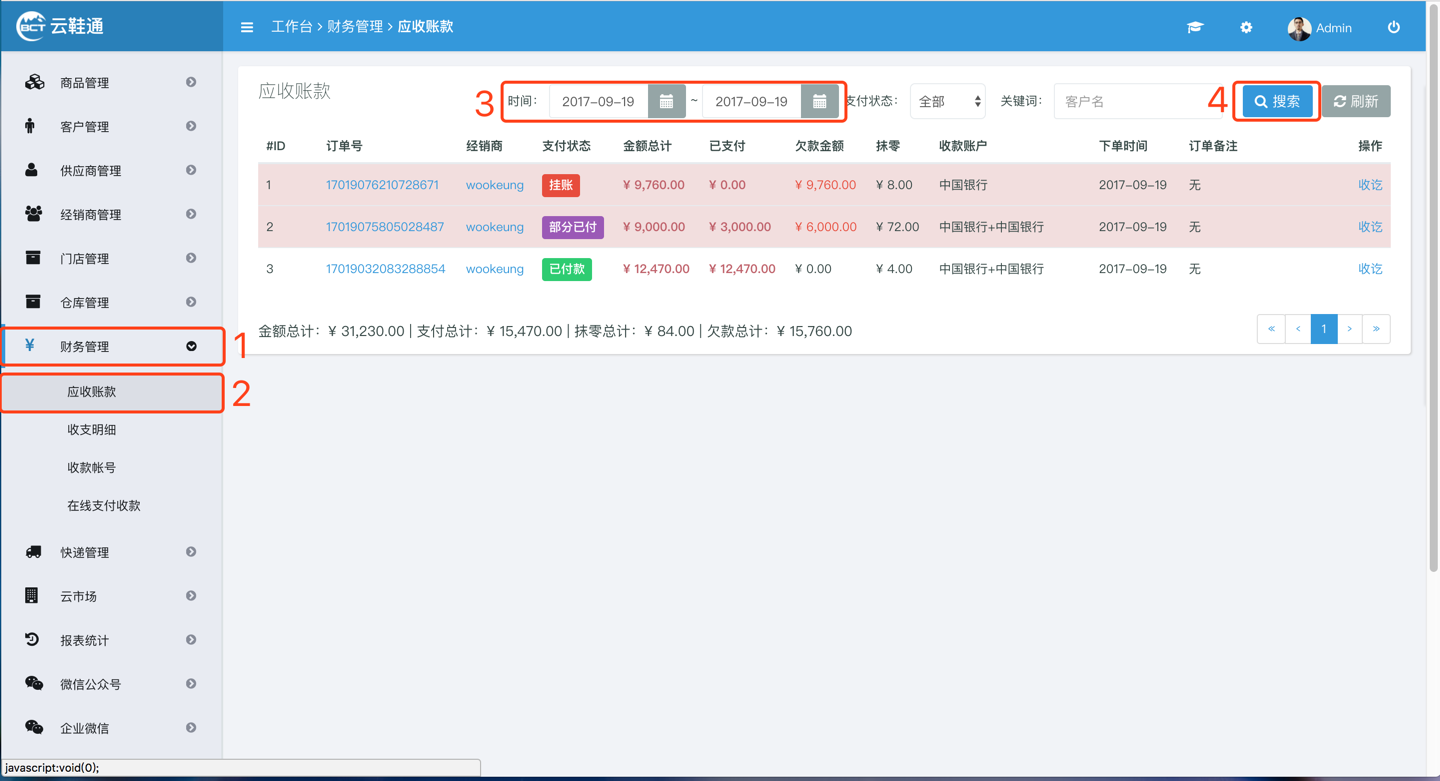
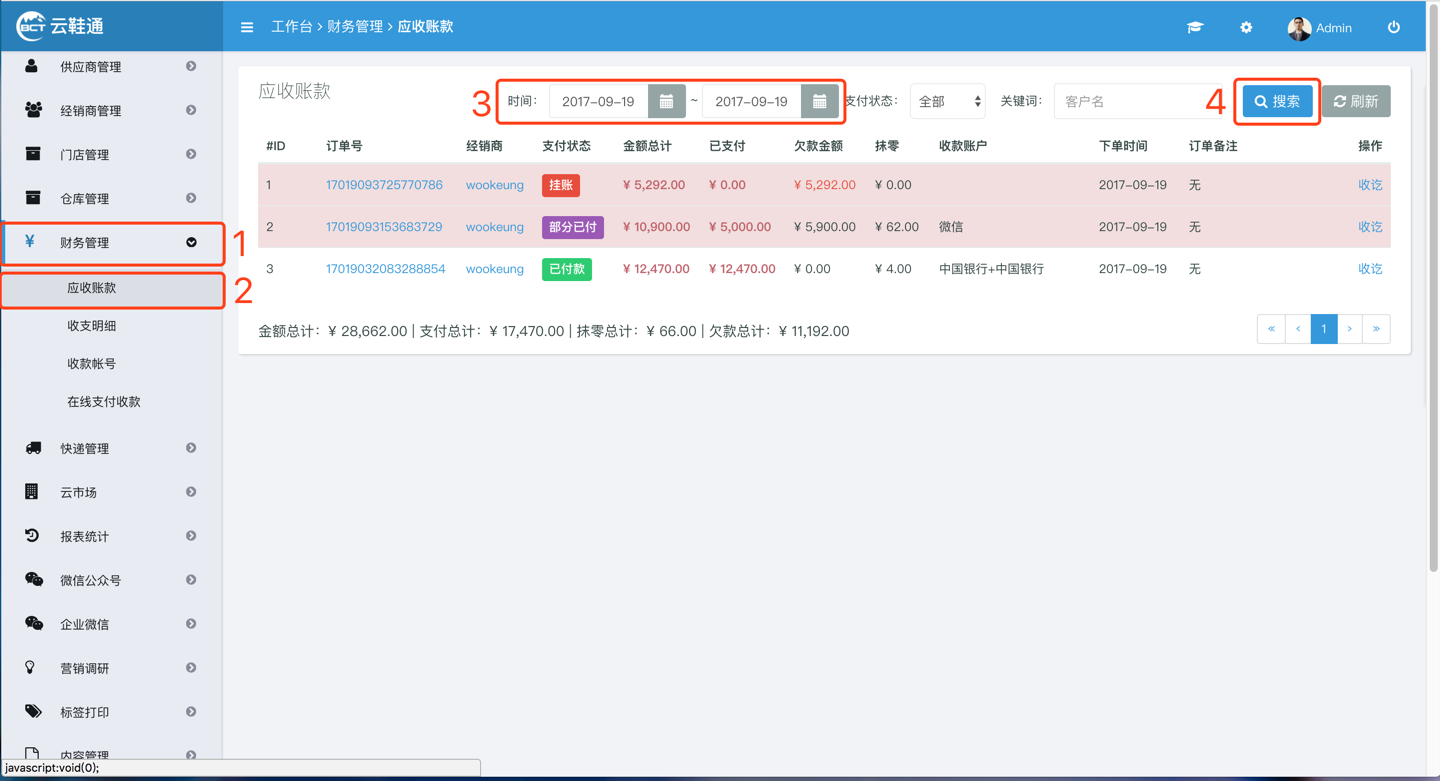
Updates ding-huo/ding-huo-liu-cheng.md
Auto commit by GitBook Editor

diff --git a/ding-huo/ding-huo-liu-cheng.md b/ding-huo/ding-huo-liu-cheng.md
@@ -65,24 +65,24 @@ _\*出库方式有两种：
 
 保存后，根据实际情况，点击【打印】则打印快递单。点击【发货】则让订单发货，此时订单状态由【配货中】改为【已发货】。如下图：![](/assets/cjdhd-15.png)
 
-点击【发货】—【确认】后，返回订单，则改单已经完成，当客户在微商城里确认收货后，该订单状态将已完成。s![](/assets/cjdhd-16.png)
+点击【发货】—【确认】后，返回订单，则改单已经完成，当客户在微商城里确认收货后，该订单状态将已完成。![](/assets/cjdhd-16.png)
 
 ### 1、_财务收款_ {#cwsk}
 
-点击左边导航【财务管理】—【应收账款】，打开应收账款列表，该列表展示的是未经财务确认付款的订货单，选择准确订单的日期时间，点击【搜索】，就可以查询对应时间内，财务未确认的订货单，如下图：
+为了对比，我们已经创建了3个订货单，他们分别以【完全支付】、【部分支付】、【挂账】的方式付款，如下图：![](/assets/cwgl-yfzk-0.png)
 
-![](/assets/cwgl-yszk-1.png)_\*1、此处列出的都是未经财务确认付款的订货单。  
+点击左边导航【财务管理】—【应收账款】，打开应收账款列表，该列表展示的是未经财务确认付款的订货单，选择准确订单的日期时间，点击【搜索】，就可以查询对应时间内，财务未确认的订货单，如下图：![](/assets/cwgl-yszk-1.png)_\*1、此处列出的都是未经财务确认付款的订货单。  
   2、支付状态对应这上面教程付款操作时选择的3个状态。  
   3、当付款状态_为_【已支付】时，点击【收讫】即可进行财务确认  
   4、当付款状态为【挂账】或【部分已付】_时_，点击【收讫】则需要新增收款信息，直到订单支付完全。_
 
-对_付款状态为【挂账】或【部分已付】，_点击【收讫】，确认后，系统自动弹出支付信息对话框，并带有提示如下图：
 
-![](/assets/cwgl-yszk-2.png)
+
+对付款状态为【挂账】或【部分已付】，点击【收讫】，确认后，系统自动弹出支付信息对话框，并带有提示如下图：![](/assets/cwgl-yszk-2.png)
 
 点击【添加】弹出对话框：![](/assets/cwgl-yszk-3.png)
 
-保存后，点击【已支付】，如下图：![](/assets/cwgl-yszk-4.png)  
-  
-确认完全支付后，返回应收账款列表，重新点击【收讫】，若订单完全支付，那么该订货单已经财务确认。
+保存后，点击【已支付】，如下图：![](/assets/cwgl-yszk-4.png)
+
+确认完全支付后，返回应收账款列表，重新点击【收讫】，若订单完全支付，那么该订货单已经财务确认。返回【订货管理】—【订货单】，查看如下图：![](/assets/cwgl-yszk-5.png)_\*1、_
 
